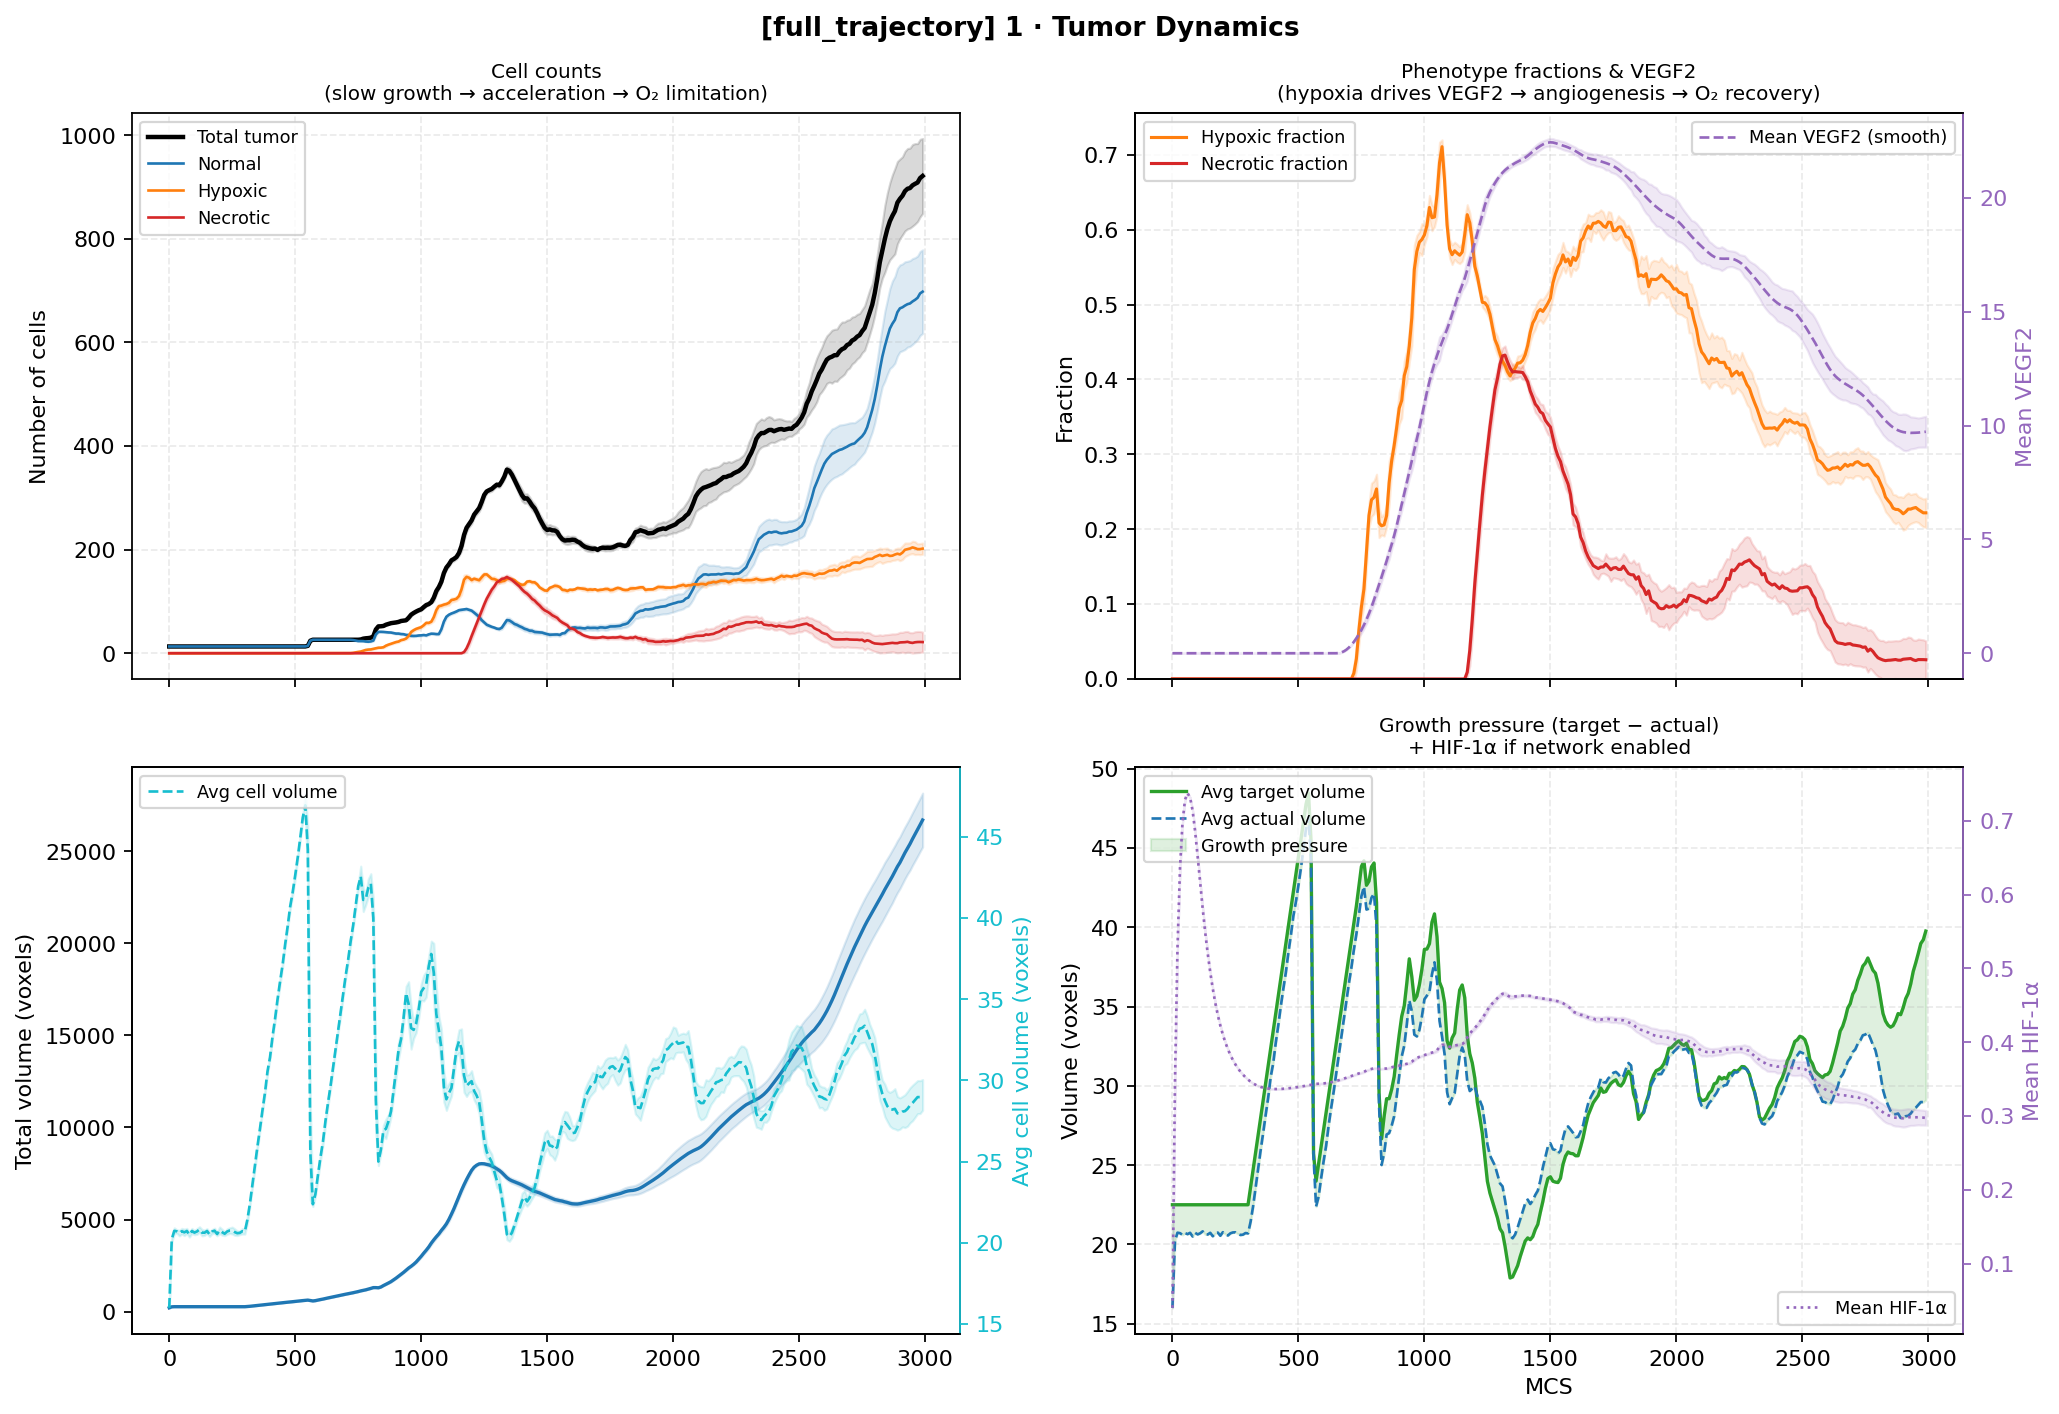
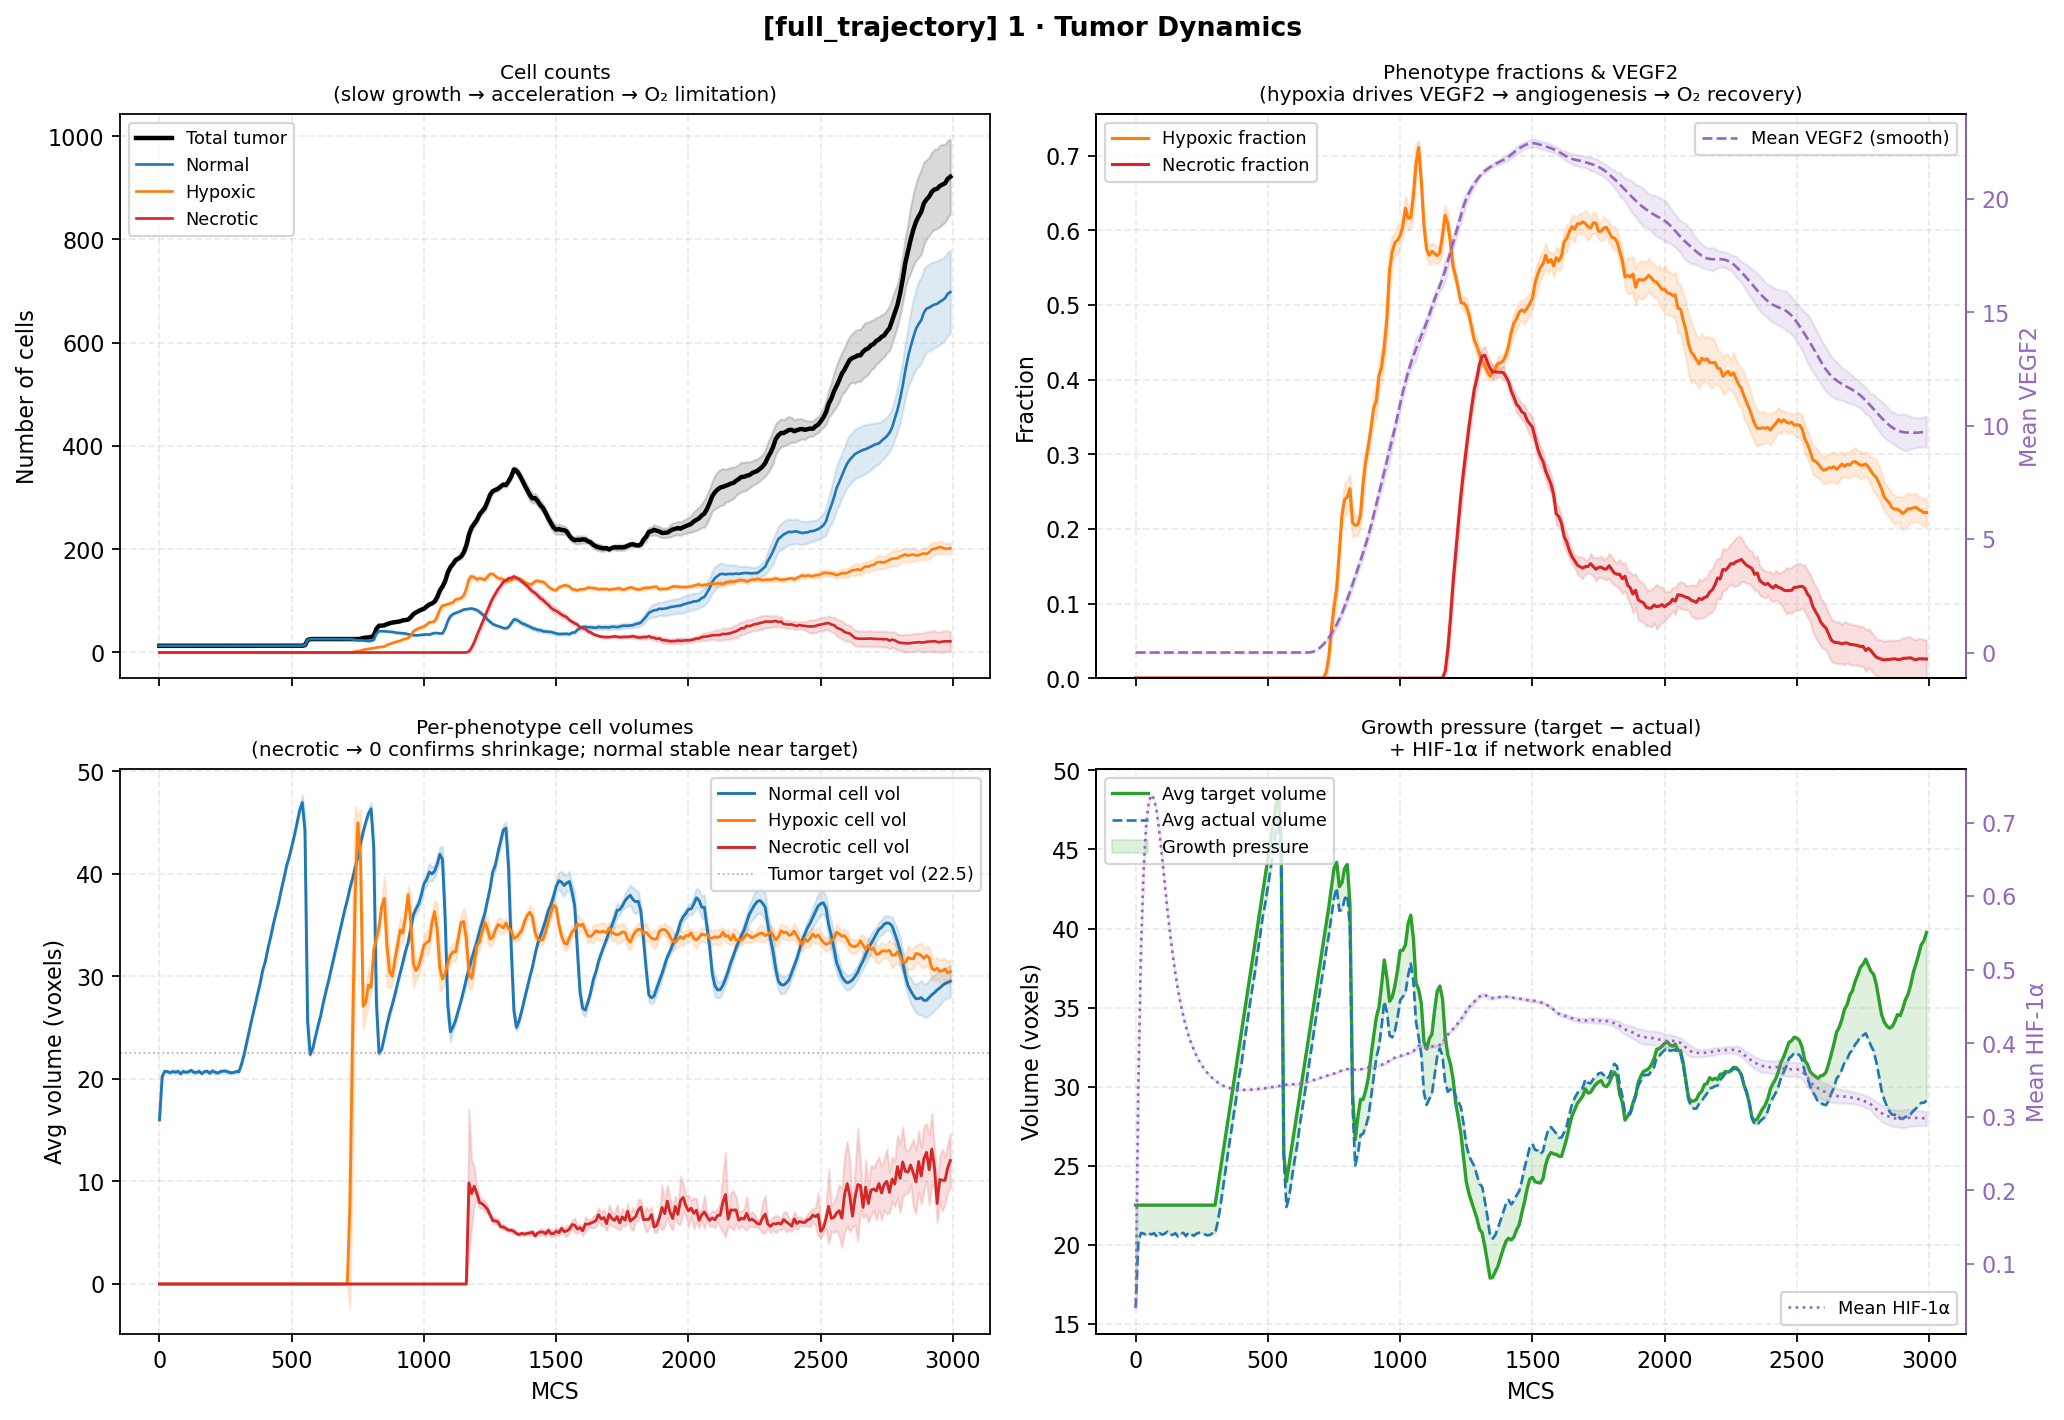
add notes and modified tumor dynamics plots

diff --git a/assignment3/notes.md b/assignment3/notes.md
@@ -1,0 +1,236 @@
+### Notes
+
+We should look at:
+
+### 1. Tumor dynamics
+* tumor cell count: growth is slow, then accelerates, eventually limited by oxygen (MM dynamics)
+* hypoxic fraction: tumor grows, less oxygne: hypoxic cells increase, secrete VEGF2: new vessels appear, oxygen improves: hypoxia decrease
+* necrotic fraction
+* tumor volume
+
+### 2. Vascular response
+* endothelial cell count: VEGF chemotaxis activates sprouting, hence increase population.
+* active sprout cells
+* vascular volume
+
+### 3. Signaling fields
+* oxygen: tumor consumes oxygen, oxygen drops, angiogenesis restores supply
+* VEGF2: rise with hypoxia
+
+### 4. System-level dynamics
+* tumor growth rate: faster when oxygen is available, active angiogenesis. Then limited
+* oxygen recovery after angiogenesis
+
+## Plots Results and Comparison
+
+- General model: tumour that begins normoxic, outgrows its oxygen supply,
+enters a hypoxic crisis that drives VEGF2 secretion, recruits new vessels via
+angiogenesis, and recovers.
+
+### Plot 1 - tumor dynamics
+
+1. Cell counts
+
+***Metrics***
+```
+normal_cells   = count of cells with type NORMAL
+hypoxic_cells  = count of cells with type HYPOXIC
+necrotic_cells = count of cells with type NECROTIC
+tumor_like_cells = sum of all three
+```
+
+Cell count is the most direct readout of tumour growth. The three subtypes tells us
+whether growth is healthy (normal cells dominating), stressed (hypoxic cells
+rising), or dying (necrotic cells appearing). The ratio between them at any moment
+summarises the tumour's oxygen status. (KEEP)
+
+2. Tumor phenotype fractions and VGEF2
+
+```
+hypoxic_fraction  = hypoxic_cells  / tumor_like_cells
+necrotic_fraction = necrotic_cells / tumor_like_cells
+normal fraction = 1 − hypoxic_fraction − necrotic_fraction
+mean_tumor_vegf2  = mean of VEGF2 field sampled at each tumour cell's centre of mass
+```
+
+Causal loop of our model.  VEGF2 on the right axis shows the signalling coupling: hypoxia
+drives VEGF2 secretion, which in turn drives angiogenesis. (KEEP)
+
+3. Per-phenotype cell volumes
+
+```
+avg_normal_volume   = mean(cell.volume for cell in normal_cells)
+avg_hypoxic_volume  = mean(cell.volume for cell in hypoxic_cells)
+avg_necrotic_volume = mean(cell.volume for cell in necrotic_cells)
+```
+
+In a CPM, cells grow by increasing `targetVolume` and the Metropolis dynamics
+drive actual volume toward the target. Average volume tells you whether the
+growth mechanics are working correctly for each phenotype. Necrotic cells should
+shrink toward zero (in our case: hollow-core); normal cells should oscillate around the target (sawtooth path is because of mitosis); hypoxic
+cells should be slightly below target (reduced growth rate).
+
+4. Growth pressure and HIF1a
+
+```
+avg_tumor_target_volume = mean(cell.targetVolume for all tumour cells)
+avg_tumor_volume        = mean(cell.volume for all tumour cells)
+growth_pressure         = target - actual  (shaded region)
+mean_tumor_hif1a        = mean(cell.dict["hif1a"] for all tumour cells)
+```
+
+The gap between target and actual volume is the mechanical drive for growth in the
+CPM: a cell with targetVolume > volume exerts outward pressure on neighbours. During the hypoxic crisis: gas are created because cells that were normally growing have their volume reset or gorwth rate reduced (necrotic / hypoxic)
+HIF1a peak is expected before growth pressure peaks, because HIF drives VGEF which drives angiogenesis that restores 02 and allows growth.
+
+### Plot 2 - Endothelial Response
+
+1. Neovascular populations
+```
+active_neovascular_cells   = count of ACTIVENEOVASCULAR cells
+inactive_neovascular_cells = count of INACTIVENEOVASCULAR cells
+```
+Active = tip cells (chemotaxing toward VEGF2, growing).
+Inactive = stalk cells (lower growth rate, following the tip).
+
+
+2. Per-type neovascular volumes
+
+```
+avg_active_neovascular_volume   = mean(cell.volume for active cells)
+avg_inactive_neovascular_volume = mean(cell.volume for inactive cells)
+```
+
+Active tip cells should be growing (volume > target) because they are receiving
+VEGF2 above threshold and have `_vascular_growth_step` adding to `targetVolume`.
+Inactive stalk cells should stay near `vascular_target_volume = 40` if no VEGF2
+is driving them. The divergence between the two lines should validate the differential
+growth rule.
+
+3. Endothelial Growth Rate
+
+```
+avg_endothelial_volume_growth_rate = _mean_delta_rate(
+    current_endothelial_volumes, previous_endothelial_volumes, delta_mcs
+)
+= (sum(current) - sum(previous)) / (delta_mcs * n_current_cells)
+```
+
+This is the per-cell average rate of volume change for neovascular cells. A
+positive rate means cells are growing on average; a negative rate means they
+are shrinking. The early period reveals initialisation artefacts; the main
+period shows how actively sprouts are growing in response to VEGF2.
+
+### Plot 3 - Signaling Fields
+
+1. Oxygen Field
+```
+mean_tumor_oxygen = mean(Oxygen[x,y,z] at each tumour cell's COM)
+```
+
+2. VGEF field
+```
+mean_tumor_vegf2 = mean(VEGF2[x,y,z] at each tumour cell's COM)
+mean_tumor_vegf1 = mean(VEGF1[x,y,z] at each tumour cell's COM)
+```
+VEGF2 is secreted by hypoxic cells.
+VEGF1 is secreted by vascular/neovascular cells and drives
+a secondary chemotaxis signal. (DO WE NEED IT?)
+
+MAYBE COMBINE TWO FIELDS
+
+### Plot 4 - System Level Dynamics
+
+1. Tumor volume growth rate
+```
+total_tumor_volume_growth_rate = (
+    sum(current cell volumes) - sum(previous cell volumes)
+) / delta_mcs
+```
+This is the most direct readout of whether the tumour is expanding, stagnant, or
+shrinking. Because it uses total volume sums, it correctly captures growth from
+both cell enlargement and cell division. The zero-crossings mark biological phase
+transitions: onset of hypoxic stasis, angiogenic recovery, and re-acceleration.
+Target growth rate (green dashed) near zero throughout: confirms this column is
+tracking target-volume changes, which are minimal because necrotic cells reset
+to zero and living cells reset after division
+
+### Plot 5 - HIF1A gene network
+1. HIF1a vs 02
+```
+mean_tumor_hif1a = mean(cell.dict["hif1a"] for all tumour cells)
+```
+2.  VEGF drive and VEF2 field
+```
+mean_tumor_vegf_drive = mean(cell.dict["vegf_drive"] for all tumour cells)
+vegf_drive = V_basal + (V_max - V_basal) * f(H)
+f(H)       = H^n / (K_H^n + H^n)    # Hill function
+```
+
+How HIF1 boosts VEGF.
+
+### Plot 6 - Spatial Dynamics
+1. Tumor Morphology
+```
+tumor_effective_radius = sqrt(total_tumor_volume / π)
+# treats the tumour as a circle of the same area
+
+tumor_mean_radius = mean(euclidean_distance(cell_COM, tumor_centroid)
+                         for all tumour cells)
+# average distance of cells from the weighted centre of mass
+
+tumor_radial_cv = std(radial_distances) / mean(radial_distances)
+# coefficient of variation: 0 = all cells at same radius, high = irregular
+
+tumor_aspect_ratio = x_span / y_span
+# bounding box ratio: 1.0 = square, <1 = taller than wide
+```
+
+Effective radius tells you how large the tumour is as a pure size metri: tumor stops expanding when oxygen is limited.
+Mean radius tells you where cells actually are relative to the centre, if
+mean radius approaches effective radius (ratio ~1.0 instead of the expected
+~0.67 for a filled disk), cells are concentrated at the periphery and the
+interior is becoming hollow. Radial CV measures boundary roughness and
+invasiveness: irregularity. Aspect ratio measure absence of directional growth bias.
+
+2. Vascular Proximity
+
+```
+# For each tumour cell, find the nearest neovascular or parent vessel cell
+dists_to_any_vessel = [min_distance(tumour_cell, all_vessel_cells)
+                       for tumour_cell in tumour_cells]
+mean_dist_to_vessel = mean(dists_to_any_vessel)
+min_dist_to_vessel  = min(dists_to_any_vessel)
+
+# Separately for neovascular sprouts only:
+mean_dist_to_sprout = mean(min_distance(tumour_cell, neovascular_cells)
+                           for tumour_cell in tumour_cells)
+```
+
+This is the spatial validation of angiogenesis. Falling distances confirm that
+vessels are genuinely approaching the tumour in space, not just appearing in
+counts. The gap between mean-to-any-vessel and mean-to-sprout shows how much
+of the proximity improvement comes from new sprouts vs inherited geometry from
+parent walls.
+
+3. Radial Architecture
+```
+normal_mean_radius   = mean(distance(normal_cell,   tumour_centroid))
+hypoxic_mean_radius  = mean(distance(hypoxic_cell,  tumour_centroid))
+necrotic_mean_radius = mean(distance(necrotic_cell, tumour_centroid))
+tumor_effective_radius  # repeated for reference
+
+hypoxic_core_offset = distance(tumour_centroid, centroid_of(hypoxic + necrotic cells))
+
+hypoxic_inner_fraction  = fraction of hypoxic cells within 0.45 * effective_radius
+necrotic_inner_fraction = fraction of necrotic cells within 0.45 * effective_radius
+```
+
+In a biologically correct tumour, oxygen diffuses inward from peripheral vessels,
+creating a gradient: normoxic cells at the outside, hypoxic in the middle,
+necrotic at the core. This predicts: `necrotic_radius < hypoxic_radius < normal_radius`.
+Measuring whether this ordering holds is the spatial validation of your O₂-phenotype coupling.
+Core offset shows whether the tumour is growing symmetrically or has a directional bias.
+
+
+Compared to model without angiogenesis... both tumor experience identical hypoxic crises driven by the same O₂ depletion and HIF1a accumulation. Angiogenesis is the only difference, and its presence produces nearly 2× more oxygen delivery (crisis is not prevented by angiogenesis but only vascularised condition can escape it), 3× more tumour cells, and allows the HIF1a network to downregulate as intended. Without angiogenesis, the GRN remains locked in a hypoxic steady state: HIF1alpha elevated, VEGF2 high, growth impaired — exactly the regulatory phenotype the model predicts for an unrescued tumour. This directly demonstrates that your GRN is not just running in parallel with the simulation but is coupled to the biological outcome in a meaningful way.
